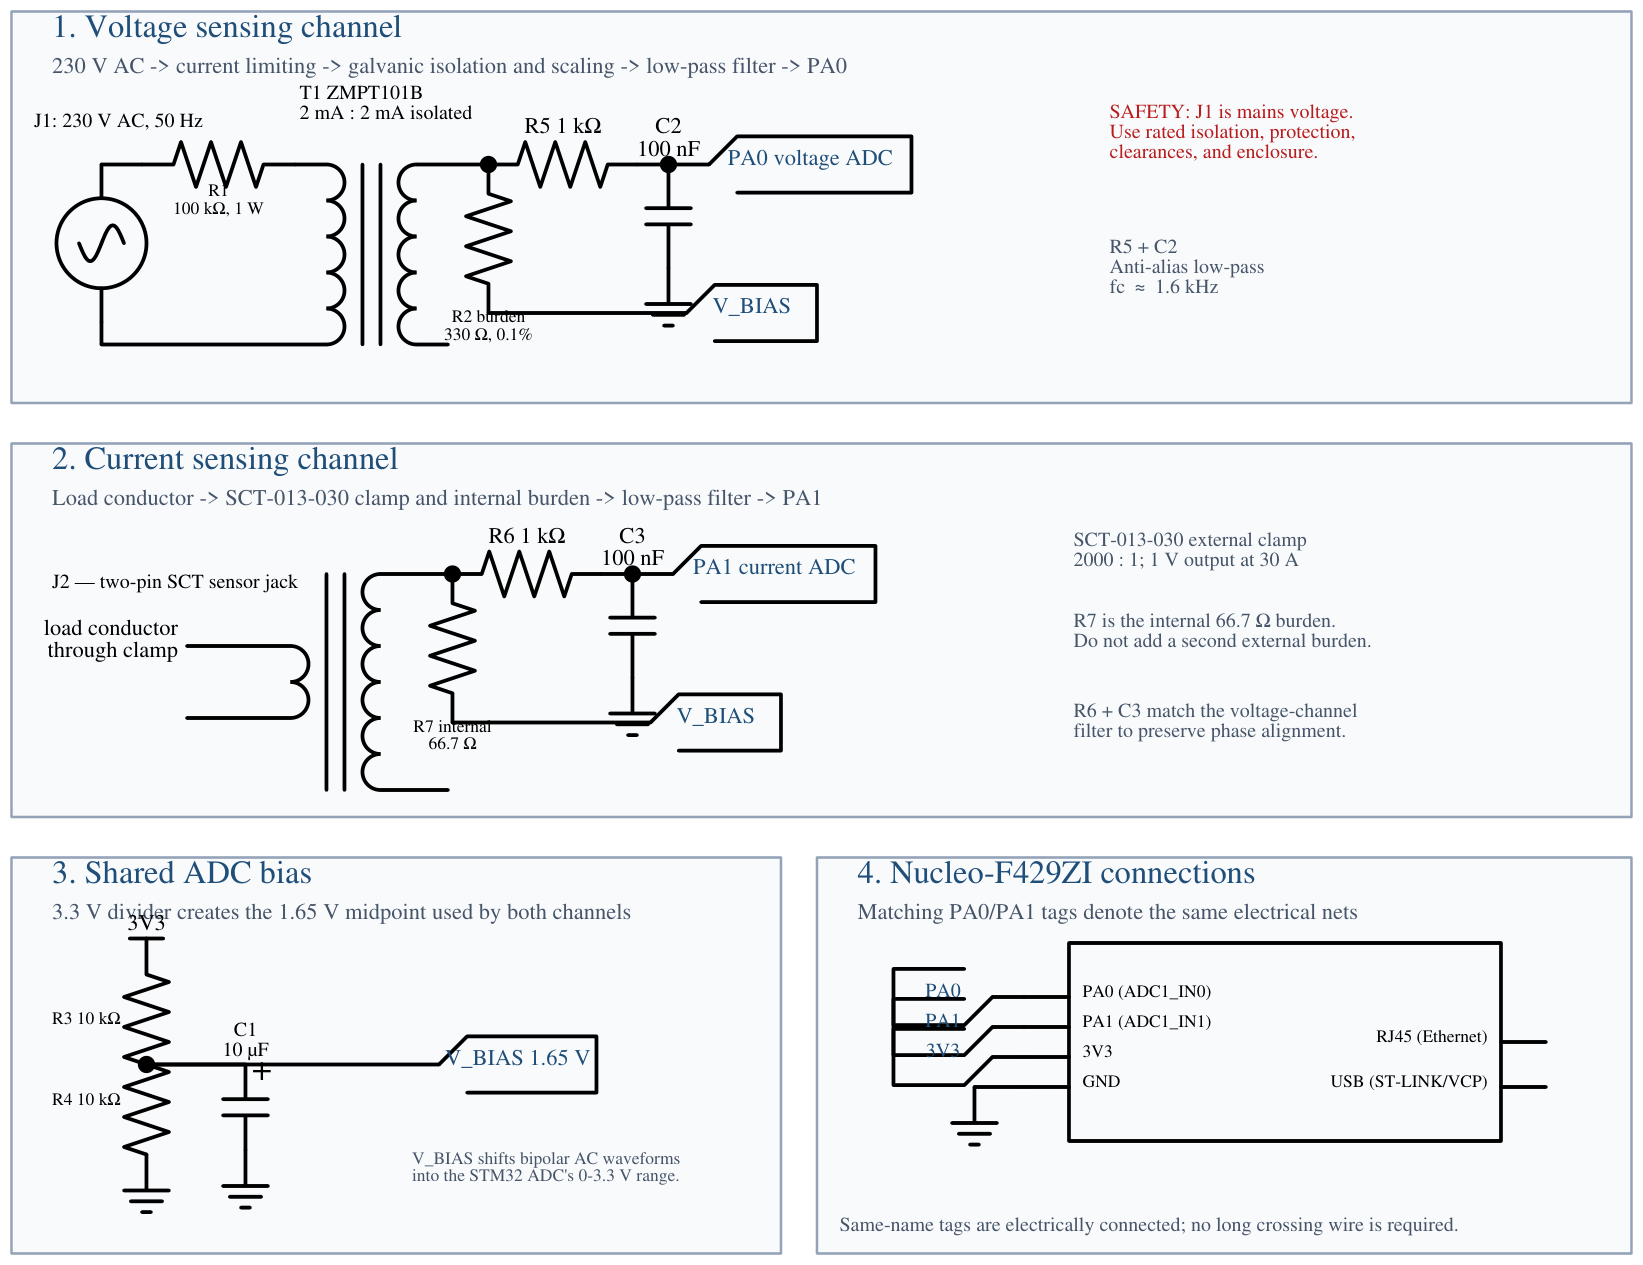
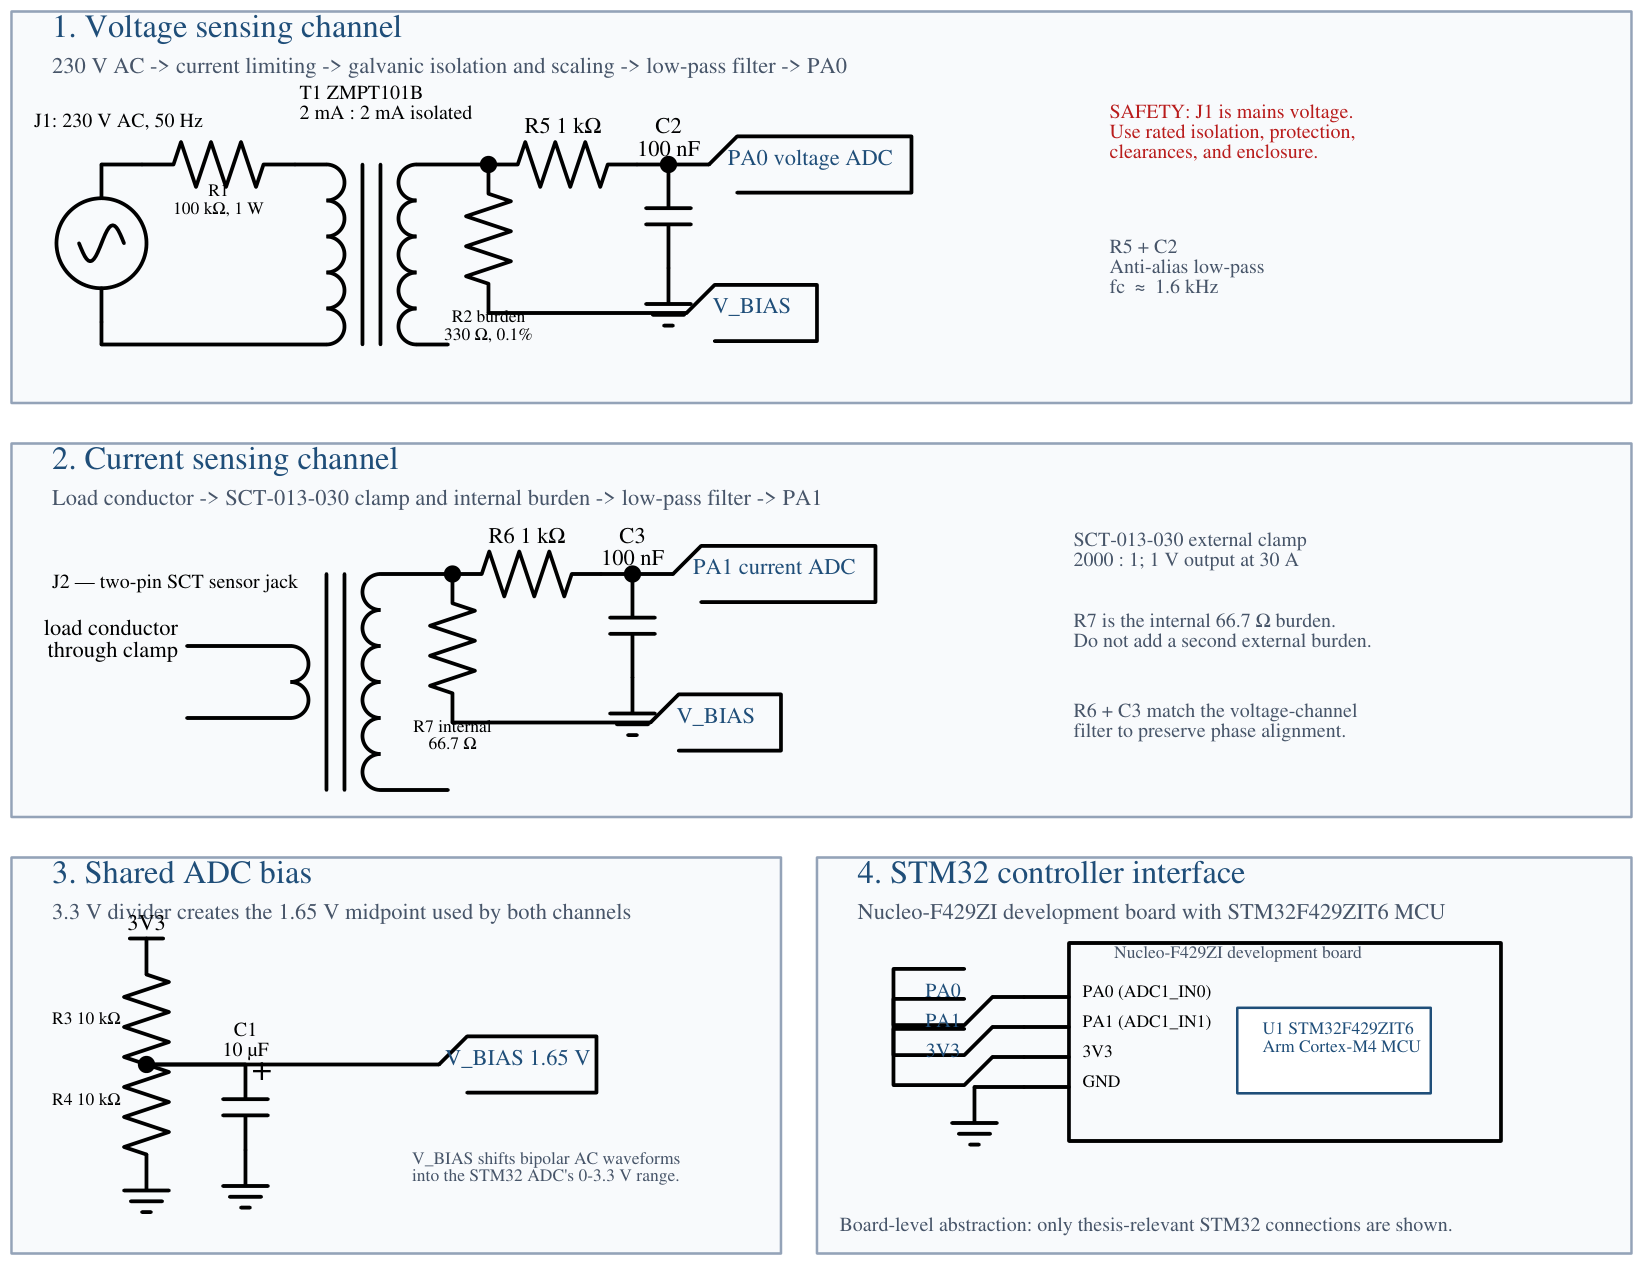
Add explicit STM32 MCU model in schematic and docs

Changed region(s): [[0.5277, 0.6783, 0.8691, 0.7708], [0.4967, 0.9557, 0.8691, 0.9866], [0.745, 0.8016, 0.9002, 0.8632]]

diff --git a/firmware/hardware/kicad/gen_schematic.py b/firmware/hardware/kicad/gen_schematic.py
@@ -4,6 +4,8 @@
 The schematic mirrors spice/*.cir and energy_node_schematic.svg:
 ZMPT101B voltage channel -> PA0, SCT-013-030 current channel -> PA1,
 shared 1.65 V mid-rail bias, headers to the Nucleo-F429ZI.
+The Nucleo block explicitly identifies its on-board STM32F429ZIT6 MCU while
+keeping the off-the-shelf board circuitry as a readable abstraction.
 
 Symbols are embedded verbatim from the system KiCad libraries, so the
 file opens standalone. Run:  python3 gen_schematic.py
@@ -67,6 +69,7 @@ symbols = []   # instance s-expressions
 wires = []
 labels = []
 notes = []
+graphics = []
 used_libs = {}
 
 
@@ -125,6 +128,15 @@ def note(p, text, size=1.6, bold=False):
     notes.append(
         f'  (text "{text}" (at {p[0]} {p[1]} 0)'
         f' (effects (font (size {size} {size}){weight}) (justify left bottom))'
+        f' (uuid {uuid.uuid4()}))'
+    )
+
+
+def rectangle(start, end, width=0.254):
+    """Add a non-electrical outline for a documented board or subassembly."""
+    graphics.append(
+        f'  (rectangle (start {start[0]} {start[1]}) (end {end[0]} {end[1]})'
+        f' (stroke (width {width}) (type default)) (fill (type none))'
         f' (uuid {uuid.uuid4()}))'
     )
 
@@ -242,16 +254,22 @@ label(p, 'V_BIAS')
 note((105, 163), 'V_BIAS = 1.65 V reference for both sensor channels', size=1.35, bold=True)
 
 # ============================================================
-# 4. Nucleo header + power flags
+# 4. Nucleo-F429ZI board and its STM32F429ZIT6 MCU
 # ============================================================
 note((195, 132), 'Power-flag symbols are KiCad checks for supplied 3V3/GND; they are not physical parts.', size=1.25)
-note((195, 137), '4. NUCLEO-F429ZI CONNECTIONS', size=2.54, bold=True)
-note((195, 141), 'PA0 = voltage samples; PA1 = current samples', size=1.5)
-note((195, 145), 'Matching net labels connect signals without long crossing wires.', size=1.25)
+note((195, 137), '4. STM32 CONTROLLER INTERFACE', size=2.54, bold=True)
+note((195, 141), 'NUCLEO-F429ZI development board with on-board STM32F429ZIT6 MCU', size=1.5, bold=True)
+note((195, 145), 'Board-level abstraction: PA0 = voltage ADC; PA1 = current ADC.', size=1.25)
 
-add('Connector_Generic:Conn_01x04', 'J3', 'TO NUCLEO-F429ZI CN9/CN8', 220, 157, rot=180,
-    ref_off=(-8.9, -8.9), val_off=(-25.4, -6.35))
-j3 = {n: pin_pos('Connector_Generic:Conn_01x04', n, 220, 157, 180) for n in '1234'}
+rectangle((192, 147), (270, 162), width=0.5)
+rectangle((196, 150), (216, 160), width=0.4)
+note((198, 153.5), 'U1  STM32F429ZIT6', size=1.5, bold=True)
+note((198, 157), 'Arm Cortex-M4 MCU', size=1.25)
+note((198, 159.5), 'on Nucleo-F429ZI board', size=1.1)
+
+add('Connector_Generic:Conn_01x04', 'J3', 'ADC/POWER HEADER', 235, 157, rot=180,
+    ref_off=(-8.9, -8.9), val_off=(-7.6, -6.35))
+j3 = {n: pin_pos('Connector_Generic:Conn_01x04', n, 235, 157, 180) for n in '1234'}
 p = hwire(j3['1'], 10.16); label(p, 'PA0')
 p = hwire(j3['2'], 10.16); label(p, 'PA1')
 p = hwire(j3['3'], 17.78)
@@ -277,6 +295,7 @@ out = f'''(kicad_sch (version 20230121) (generator gen_schematic.py)
   )
 {chr(10).join(wires)}
 {chr(10).join(labels)}
+{chr(10).join(graphics)}
 {chr(10).join(notes)}
 {chr(10).join(symbols)}
   (sheet_instances (path "/" (page "1")))

diff --git a/firmware/hardware/schematic.py b/firmware/hardware/schematic.py
@@ -6,7 +6,8 @@ The figure mirrors the KiCad schematic and the two SPICE models:
 - voltage channel: J1/R1/T1/R2/R5/C2 -> PA0
 - current channel: SCT-013-030/J2/R7/R6/C3 -> PA1
 - shared midpoint: R3/R4/C1 -> V_BIAS
-- controller connection: PA0/PA1/3V3/GND -> Nucleo-F429ZI
+- controller connection: PA0/PA1/3V3/GND -> Nucleo-F429ZI with
+  STM32F429ZIT6 MCU shown explicitly
 
 Run from any directory with:
     uv run --with schemdraw python firmware/hardware/schematic.py
@@ -84,8 +85,8 @@ panel(
     -2.6,
     9.05,
     4.4,
-    '4. Nucleo-F429ZI connections',
-    'Matching PA0/PA1 tags denote the same electrical nets',
+    '4. STM32 controller interface',
+    'Nucleo-F429ZI development board with STM32F429ZIT6 MCU',
 )
 
 
@@ -212,7 +213,7 @@ d += elm.Tag(width=1.75).right().label('V_BIAS  1.65 V', fontsize=9, color=SECTI
 text(4.35, -1.8, 'V_BIAS shifts bipolar AC waveforms\ninto the STM32 ADC\'s 0-3.3 V range.', size=7, color=MUTED)
 
 
-# ================= Nucleo-F429ZI =================
+# ================= Nucleo-F429ZI / STM32F429ZIT6 =================
 mcu = (
     elm.Ic(
         size=(4.8, 2.2),
@@ -221,8 +222,6 @@ mcu = (
             elm.IcPin(name='PA1 (ADC1_IN1)', side='left', slot='3/4', anchorname='PA1', lblsize=7),
             elm.IcPin(name='3V3', side='left', slot='2/4', anchorname='V33', lblsize=7),
             elm.IcPin(name='GND', side='left', slot='1/4', anchorname='GNDP', lblsize=7),
-            elm.IcPin(name='RJ45 (Ethernet)', side='right', slot='2/3', lblsize=7),
-            elm.IcPin(name='USB (ST-LINK/VCP)', side='right', slot='1/3', lblsize=7),
         ],
         edgepadW=0.8,
         edgepadH=0.6,
@@ -230,6 +229,17 @@ mcu = (
     .at((11.75, -1.35))
 )
 d += mcu
+
+# Show the controller explicitly while keeping the Nucleo board as the
+# implemented hardware boundary.  The full 144-pin Nucleo circuitry is an
+# off-the-shelf development board and would obscure the sensing front end.
+d.add(
+    elm.Rect((0, 0), (2.15, 0.95), fill='white', lw=1)
+    .at((13.62, -0.82))
+    .color(SECTION)
+)
+text(13.8, -0.36, 'U1  STM32F429ZIT6\nArm Cortex-M4 MCU', size=7, color=SECTION)
+text(12.15, 0.58, 'Nucleo-F429ZI development board', size=7, color=MUTED)
 
 d += elm.Line().at(mcu.PA0).left(0.35)
 d += elm.Tag(width=1.1).left().label('PA0', fontsize=8, color=SECTION)
@@ -240,7 +250,13 @@ d += elm.Tag(width=1.1).left().label('3V3', fontsize=8, color=SECTION)
 d += elm.Line().at(mcu.GNDP).left(0.55)
 d += elm.Ground()
 
-text(9.3, -2.25, 'Same-name tags are electrically connected; no long crossing wire is required.', size=8, color=MUTED)
+text(
+    9.3,
+    -2.25,
+    'Board-level abstraction: only thesis-relevant STM32 connections are shown.',
+    size=8,
+    color=MUTED,
+)
 
 
 # ================= output =================

diff --git a/firmware/hardware/README.md b/firmware/hardware/README.md
@@ -32,10 +32,15 @@ Read the numbered blocks from top to bottom:
    R7 burden produces a voltage, and R6/C3 filter it before **PA1**.
 3. **ADC bias:** R3/R4 create **V_BIAS = 1.65 V** and C1 stabilizes it. The
    midpoint lets the STM32 ADC represent both halves of each AC waveform.
-4. **Nucleo connection:** matching `PA0`, `PA1`, `V_BIAS`, `3V3`, and `GND`
-   net labels are electrically connected even when KiCad does not draw a long
-   wire between the matching names. The small power-flag symbols by J3 only
-   tell KiCad that 3V3 and GND are supplied; they are not physical components.
+4. **STM32 controller interface:** the Nucleo-F429ZI development board and its
+   on-board **STM32F429ZIT6** MCU are shown explicitly. Matching `PA0`, `PA1`,
+   `3V3`, and `GND` net labels are electrically connected even when KiCad does
+   not draw a long wire between the matching names; `V_BIAS` is the separate
+   shared reference net for the two sensor channels. Only the
+   thesis-relevant board connections are expanded; the off-the-shelf Nucleo's
+   complete 144-pin support circuitry is intentionally abstracted. The small
+   power-flag symbols by J3 only tell KiCad that 3V3 and GND are supplied; they
+   are not physical components.
 
 The component prefix indicates its type: `J` = connector, `R` = resistor,
 `C` = capacitor, and `T` = transformer/sensor. J1 is a mains-voltage input and